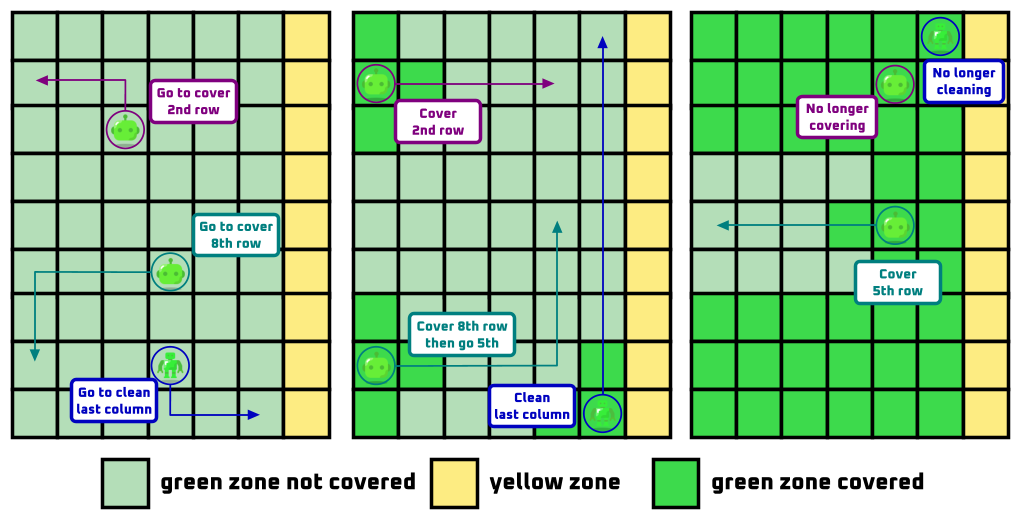
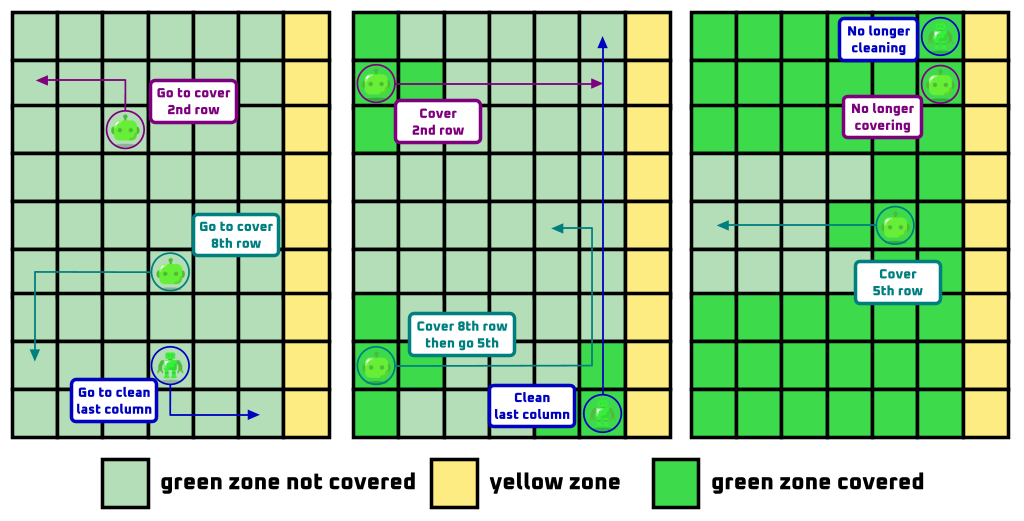
Treat the edge case when there is only one chief for each zone, the green and the yellow must cover too

diff --git a/agents.py b/agents.py
@@ -943,6 +943,7 @@ class Chief(CleaningAgent):
             grid_radioactivity=np.zeros((grid_size[0], grid_size[1])))
         self.percepts = {}
         self.list_former_targets = []
+        self.bool_first_messages = True # indicates if this is the first time the chief is receiving messages
 
     def step(self):
         """
@@ -1001,6 +1002,28 @@ class Chief(CleaningAgent):
         print("Chief", self.unique_id, "received messages as perceived and data :", self.list_received_percepts_and_data)
         print("Chief", self.unique_id, "received messages as information from other chief :", self.list_information_chief)
         print("Chief", self.unique_id, "received messages as target positions to delete :", self.list_former_targets)
+
+        # Determine if the chief has to cover if he is alone
+        if self.bool_first_messages:
+            self.determine_covering()
+
+    def determine_covering(self):
+        """
+        Determine if the chief (green or yellow) needs to cover in the case there are no other agent.
+        
+        Parameters
+        ----------
+        None
+        
+        Returns
+        -------
+        None
+        """
+        bool_cleaned_right_column = self.knowledge.get_bool_cleaned_right_column()
+        # If the chief is alone, it must cover the grid after the right column
+        if bool_cleaned_right_column and len(self.list_received_percepts_and_data) == 0:
+            self.knowledge.set_bool_covering(bool_covering=True)
+            self.bool_first_messages = False
 
     def update_target_position_list_orders(self):
         dict_target_position_agent = self.knowledge.get_dict_target_position_agent()
@@ -1148,6 +1171,7 @@ class Chief(CleaningAgent):
         rows_being_covered = self.knowledge.get_rows_being_covered()
         green_left_column, yellow_left_column, red_left_column = self.knowledge.get_list_green_yellow_red_left_columns()
         green_right_column, yellow_right_column, red_right_column = self.knowledge.get_list_green_yellow_red_right_columns()
+        print("BEFORE ROWS BEING COVERED", rows_being_covered)
 
         # The chief can now send orders to himself
         dict_knowledge_agents[self.get_name()] = {
@@ -1205,6 +1229,7 @@ class Chief(CleaningAgent):
                         print("Chief is sending the order to stop covering to agent", agent_name)
                         
         # Update the knowledge of the chief with the rows being covered
+        print("AFTER ROWS BEING COVERED", rows_being_covered)
         self.knowledge.set_rows_being_covered(rows_being_covered=rows_being_covered)
 
     def find_closest_waste_to_agent(self, agent_name, agent_position):
@@ -1275,9 +1300,9 @@ class Chief(CleaningAgent):
             # If the chief wants to send an order to a non chief agent not in covering
             bool_condition_order_for_classic_agent = self.get_name() != agent_name and not bool_covering
             # If the chief wants to send an order to himself, he must have finished classic covering or covering last column, depending to its type
-            bool_condition_order_for_chief_agent =  self.get_name() == agent_name and (
+            bool_condition_order_for_chief_agent = self.get_name() == agent_name and (
                 (type(self) == ChiefRedAgent and not bool_covering) or (
-                type(self) in [ChiefGreenAgent, ChiefYellowAgent] and self.knowledge.get_bool_cleaned_right_column()))
+                type(self) in [ChiefGreenAgent, ChiefYellowAgent] and self.knowledge.get_bool_cleaned_right_column() and not bool_covering))
 
             if bool_condition_order_for_classic_agent or bool_condition_order_for_chief_agent:
                 # If the agent has no target to follow and has no waste to drop
@@ -1297,7 +1322,6 @@ class Chief(CleaningAgent):
             self.send_orders_covering()
         # If the grid is covered, the chief will send orders to the agents to clean the nearest waste
         self.send_target_orders()
-
 
     def deliberate_cover_last_column(self):
         # Get data from knowledge

diff --git a/server.py b/server.py
@@ -155,9 +155,9 @@ chart_element = mesa.visualization.ChartModule(
 )
 
 model_params = {
-    "nb_green_agents": mesa.visualization.Slider("Initial number of green agents", 0, 1, 6, 1),
-    "nb_yellow_agents": mesa.visualization.Slider("Initial number of yellow agents", 0, 1, 6, 1) ,
-    "nb_red_agents": mesa.visualization.Slider("Initial number of red agents", 3, 1, 6, 1),
+    "nb_green_agents": mesa.visualization.Slider("Initial number of green agents", 1, 1, 6, 1),
+    "nb_yellow_agents": mesa.visualization.Slider("Initial number of yellow agents", 1, 1, 6, 1) ,
+    "nb_red_agents": mesa.visualization.Slider("Initial number of red agents", 1, 1, 6, 1),
     "waste_density": mesa.visualization.Slider("Initial waste density", WASTE_DENSITY, 0, 1, 0.1)
 }
 
